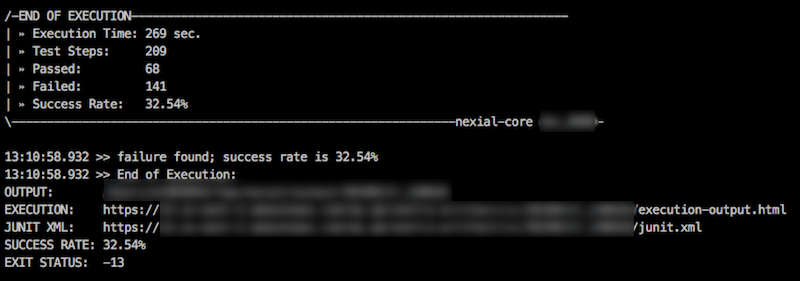
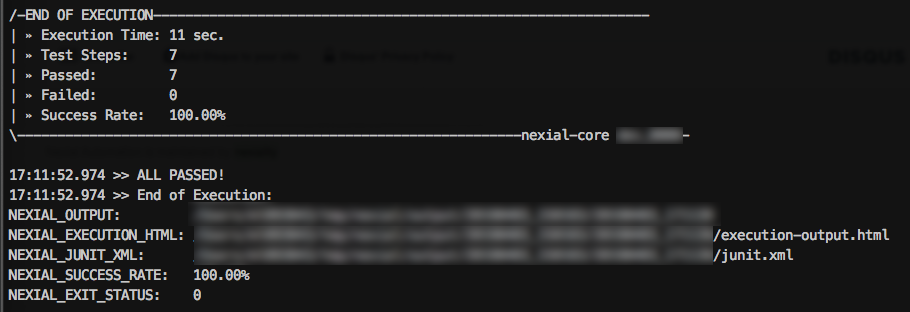
update docs on execution metadata

Changed region(s): [[0.0, 0.0, 1.0, 1.0], [0.1562, 0.2278, 0.2188, 0.2562]]

diff --git a/systemvars/endofexecution.md b/systemvars/endofexecution.md
@@ -7,22 +7,48 @@ comments: true
 ---
 
 At the [end of execution](endofexecution), Nexial emits some information that might be useful for external or its parent
-process. The main idea is to provide information in a standard, consistent manner so that it may be further processed as
-part of a larger pipeline (think CI/CD).
+process. One may consider such information as execution metadata. The main idea is to provide information in a standard, 
+consistent manner so that it may be further processed as part of a larger pipeline (as the case for CI/CD). One could 
+write a fairly straightforward script to extract execution metadata such as PASS percentage and execution report URL or 
+location.
 
-Here's an snapshot of what one can find at the end of a Nexial execution:
-
+Here's an snapshot of what one can find at the end of a Nexial execution:<br/>
 ![](image/endofexecution_01.png)
 
 Observe the following:
-1. `OUTPUT:` shows the output directory created for this specific execution.
-2. `EXECUTION:` shows the location of the execution output (HTML) for this specific execution.
-3. `JUNIT XML:` show the location of the JUnit XML generated for this specific execution.
-4. `SUCCESS RATE:` show the PASS percentage of this specific execution.
-5. `EXIT STATUS:` show the [exit status](exitstatus) of this specific execution. Subsequently this will also be
-   the exit status of `nexial.cmd` or `nexial.sh`.
 
-Having the above information will allow either an external or parent process to parse for additional details
-regarding a Nexial execution. For example, one could harvest for information to dynamically generate an email with
-execution status and links.
+| `NEXIAL_OUTPUT`        | the output directory created for this specific execution.                |
+| `NEXIAL_EXECUTION_HTML`| the location of the execution output (HTML) for this specific execution. |
+| `NEXIAL_JUNIT_XML`     | the location of the JUnit XML generated for this specific execution.     |
+| `NEXIAL_SUCCESS_RATE`  | the PASS percentage of this specific execution.                          |
+| `NEXIAL_EXIT_STATUS`   | the [exit status](exitstatus) of this specific execution. Subsequently this will also be the exit status of `nexial.cmd` or `nexial.sh`.|
 
+<br/>
+The above metadata can help to provide a more engaging and meaningful automation experience. For example, one could 
+use these information to dynamically generate an email with execution status and links. Or, one could execute different 
+Nexial automation suite depending on the PASS percentage (`NEXIAL_SUCCESS_RATE`) of the current execution.
+
+The above information can also be rendered as environment variables. Nexial detects the presence of an environment
+variable named as `NEXIAL_POST_EXEC_SHELL`, which represents the location of a post-execution shell script, and write
+the above execution metadata into the same shell script file at the end of an execution. Below is one plausible way to 
+inject the execution metadata as environment variables of parent shell process:
+
+1. Prior to running a Nexial execution, declare `NEXIAL_POST_EXEC_SHELL` environment variable with desired location
+   of shell script that should be executed after Nexial execution.<br/>
+   ```
+   export NEXIAL_POST_EXEC_SHELL=${TMPDIR}/nexial-postexec.sh
+   ```
+2. Proceed to execute Nexial as planned.
+   ```
+   ${NEXIAL_HOME}/bin/nexial.sh -plan ... ... ...
+   ```
+3. Nexial detects the presents of `NEXIAL_POST_EXEC_SHELL` and writes the execution metadata to it.
+   ![](image/endofexecution_02.png)
+4. After Nexial execution completes, adjust the target post-execution shell script for execution (*NIX only) and then 
+   run (or _source_) the declared post-execution shell script.
+   ![](image/endofexecution_03.png)
+6. Now the post-execution metadata are avaiable in current shell.
+7. One may choose to delete the `NEXIAL_POST_EXEC_SHELL` script file.
+
+By either parsing the execution output or specifying `NEXIAL_POST_EXEC_SHELL` (and then run it after Nexial execution),
+one can create a more engaging automation execution and a more dynamic automation solution.

diff --git a/release/nexial-core-v2.1.changelog.md b/release/nexial-core-v2.1.changelog.md
@@ -24,7 +24,7 @@ comments: true
 #### Improvements:
 - shell scripts support commandline arguments that contain spaces.
 - added execution output html link and more meaningful data to execution result notification mail.
-- support list index reference on data variable. Now `${var}[1]` will return `5` from `0,1,2,3,4,5,6`.
+- support list index reference on data variable. Now `${var}[1]` will return `5` from `6,5,4,3,2,1,0`.
 
 #### Project Inspector
 - code fix to `nexial-project-inspector` when the target project does not contain `project.properties`

diff --git a/userguide/index.md b/userguide/index.md
@@ -30,6 +30,7 @@ Let's get started!
 - [Execution Event Notification](EventNotification)
 - [Automation Execution Flow](ExecutionFlow)
 - [Real-time Inspection of Data Variables](RealtimeInspectionOfDataVariables)
+- [End of Execution](../systemvars/endofexecution)
 - [Executing Nexial in CI/CD](ExecutingNexialInCICD)
 - [Nexial Execution Dashboard](ExecutionDashboard)
 

diff --git a/systemvars/exitstatus.md b/systemvars/exitstatus.md
@@ -71,4 +71,4 @@ else
 fi
 ```
 
-For more exit-level output from Nexial, please see [End of Execution](endofexecution).
+For more execution metadata output from Nexial, please see [End of Execution](endofexecution).
